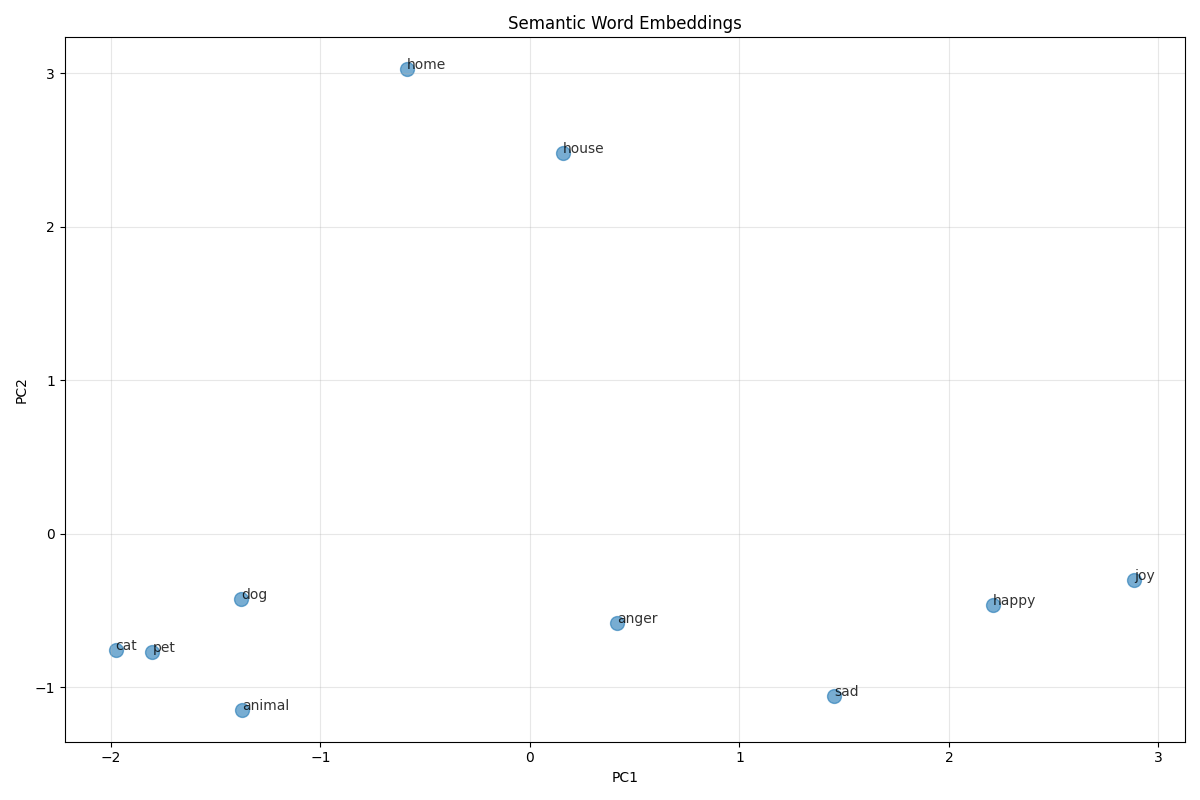
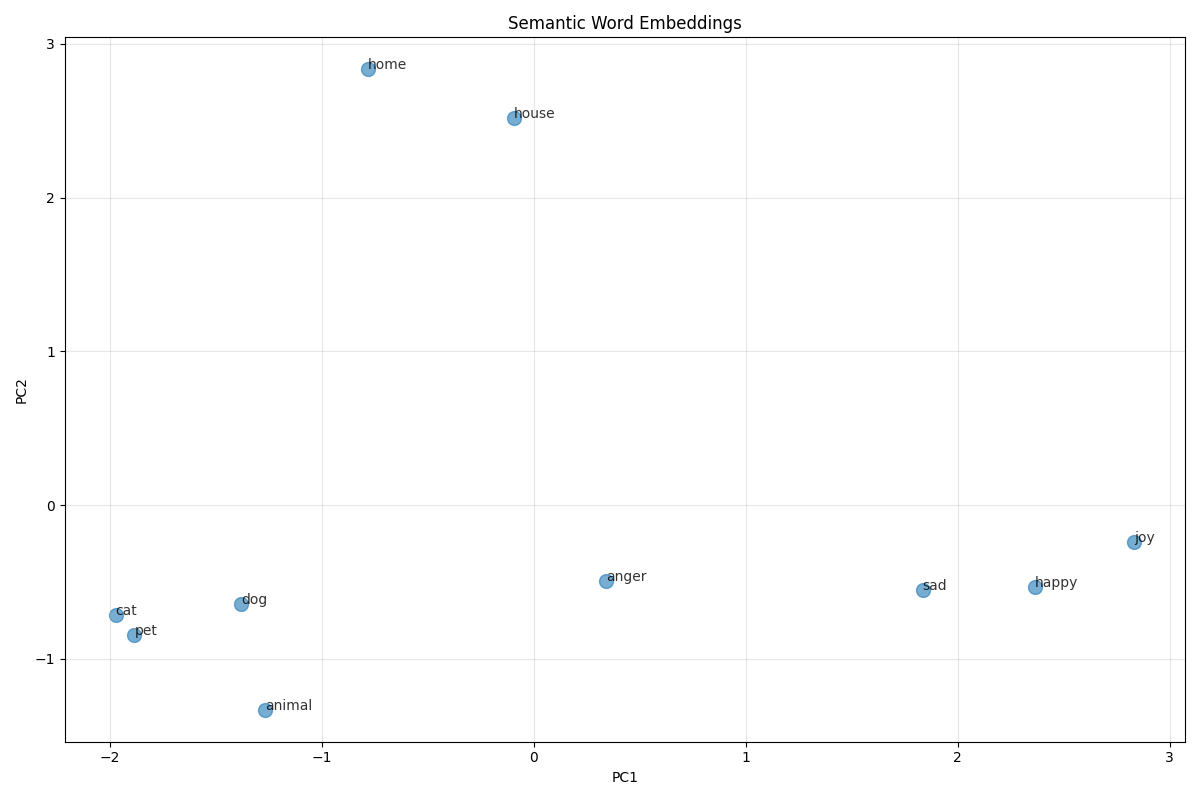
add group of 4 similarity

diff --git a/baselines/deepwalk.py b/baselines/deepwalk.py
@@ -107,7 +107,7 @@ def train_node2vec(
     return embedding, word2idx, idx2word, model
 
 
-def plot_embeddings(embedding, words, word2idx, idx2word, title="Word Embeddings"):
+def plot_embeddings(embedding, words, word2idx, idx2word, title="Word Embeddings", groups=None):
     """Plot word embeddings in 2D using PCA."""
     # Filter valid words
     print("words:")
@@ -127,10 +127,26 @@ def plot_embeddings(embedding, words, word2idx, idx2word, title="Word Embeddings
 
     # Apply PCA
     pca_result = PCA(n_components=2).fit_transform(embedding[indices])
-
+    
     # Plot
     plt.figure(figsize=(12, 8))
-    plt.scatter(pca_result[:, 0], pca_result[:, 1], alpha=0.6, s=100)
+    
+    # Use different colors for different groups if provided
+    if groups:
+        colors = ['#FF6B6B', '#4ECDC4', '#45B7D1', '#96CEB4']  # Different colors for each group
+        for group_idx, group_words in enumerate(groups):
+            group_indices = [i for i, word in enumerate(valid_words) if word in group_words]
+            if group_indices:
+                plt.scatter(
+                    pca_result[group_indices, 0],
+                    pca_result[group_indices, 1],
+                    alpha=0.6,
+                    s=100,
+                    color=colors[group_idx % len(colors)],
+                    label=f'Group {group_idx + 1}'
+                )
+    else:
+        plt.scatter(pca_result[:, 0], pca_result[:, 1], alpha=0.6, s=100)
 
     for i, word in enumerate(valid_words):
         plt.annotate(
@@ -140,6 +156,9 @@ def plot_embeddings(embedding, words, word2idx, idx2word, title="Word Embeddings
             alpha=0.8,
         )
 
+    if groups:
+        plt.legend()
+        
     plt.xlabel("PC1")
     plt.ylabel("PC2")
     plt.title(title)
@@ -181,12 +200,77 @@ def test_with_connections():
         q=1,
     )
 
-    # TODO load connections game 870 and print embeddings of all words and then compute similarities
+    # Load connections game data
     connections_data = load_connections_game(
         "connections_data/Connections_Data.csv", game_id=870
     )
     words = connections_data["all_words"]
-    plot_embeddings(embedding, words, word2idx, idx2word, title="Connections Game 870")
+    
+    # Get embeddings for valid words
+    valid_words = [w.lower() for w in words if w.lower() in word2idx]
+    valid_indices = [word2idx[w] for w in valid_words]
+    valid_embeddings = embedding[valid_indices]
+    
+    # Calculate pairwise similarities
+    similarities = cosine_similarity(valid_embeddings)
+    
+    # Create groups based on mutual similarity
+    def group_average_similarity(word_indices, similarities_matrix):
+        """Calculate the average pairwise similarity within a group"""
+        if len(word_indices) <= 1:
+            return 0
+        pair_similarities = []
+        for i in range(len(word_indices)):
+            for j in range(i + 1, len(word_indices)):
+                pair_similarities.append(similarities_matrix[word_indices[i]][word_indices[j]])
+        return np.mean(pair_similarities)
+
+    def find_best_group(available_indices, similarities_matrix, size=4):
+        """Find the group of given size with highest average mutual similarity"""
+        best_group = []
+        best_score = -1
+        
+        # Try each word as a starting point
+        for start_idx in available_indices:
+            # Get similarities to all other available words
+            current_sims = similarities_matrix[start_idx]
+            # Get indices of most similar available words
+            candidate_indices = [i for i in available_indices if i != start_idx]
+            candidate_indices.sort(key=lambda x: current_sims[x], reverse=True)
+            
+            # Try top N most similar words
+            for subset in range(min(10, len(candidate_indices) - size + 2)):
+                potential_group = [start_idx] + candidate_indices[subset:subset + size - 1]
+                if len(potential_group) == size:
+                    score = group_average_similarity(potential_group, similarities_matrix)
+                    if score > best_score:
+                        best_score = score
+                        best_group = potential_group
+        
+        return best_group, best_score
+
+    # Create groups based on mutual similarity
+    groups = []
+    available_indices = set(range(len(valid_words)))
+    
+    while len(available_indices) >= 4:
+        best_group, score = find_best_group(available_indices, similarities)
+        if not best_group or score < 0:
+            break
+            
+        # Add group and remove used words
+        groups.append([valid_words[i] for i in best_group])
+        available_indices -= set(best_group)
+    
+    # Plot with the automatically generated groups
+    plot_embeddings(embedding, words, word2idx, idx2word, 
+                   title="Connections Game 870 (Auto-Grouped)", 
+                   groups=groups)
+    
+    # Print the groups for analysis
+    print("\nAutomatically generated groups based on embedding similarity:")
+    for i, group in enumerate(groups):
+        print(f"Group {i + 1}: {', '.join(group)}")
 
 
 def hand_made_test():
@@ -248,9 +332,9 @@ def init():
 
 def main():
     # test saloni made
-    hand_made_test()
+    # hand_made_test()
     # load and test with latest connections game
-    # test_with_connections()
+    test_with_connections()
 
 
 if __name__ == "__main__":

diff --git a/load_connections.py b/load_connections.py
@@ -57,4 +57,4 @@ if __name__ == "__main__":
     data = load_connections_game("connections_data/Connections_Data.csv", game_id=870)
     print(data["game_id"], data["puzzle_date"])
     print(data["groups"].keys())
-    print(data["groups"]["INTO IT"])
+    print(data["groups"])
